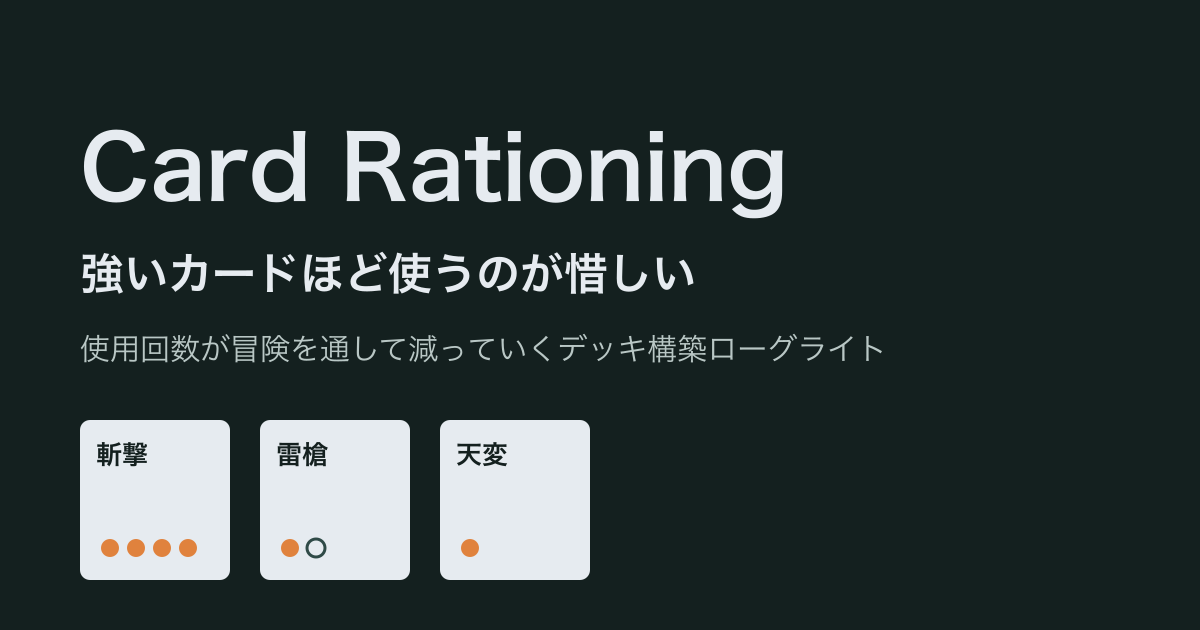
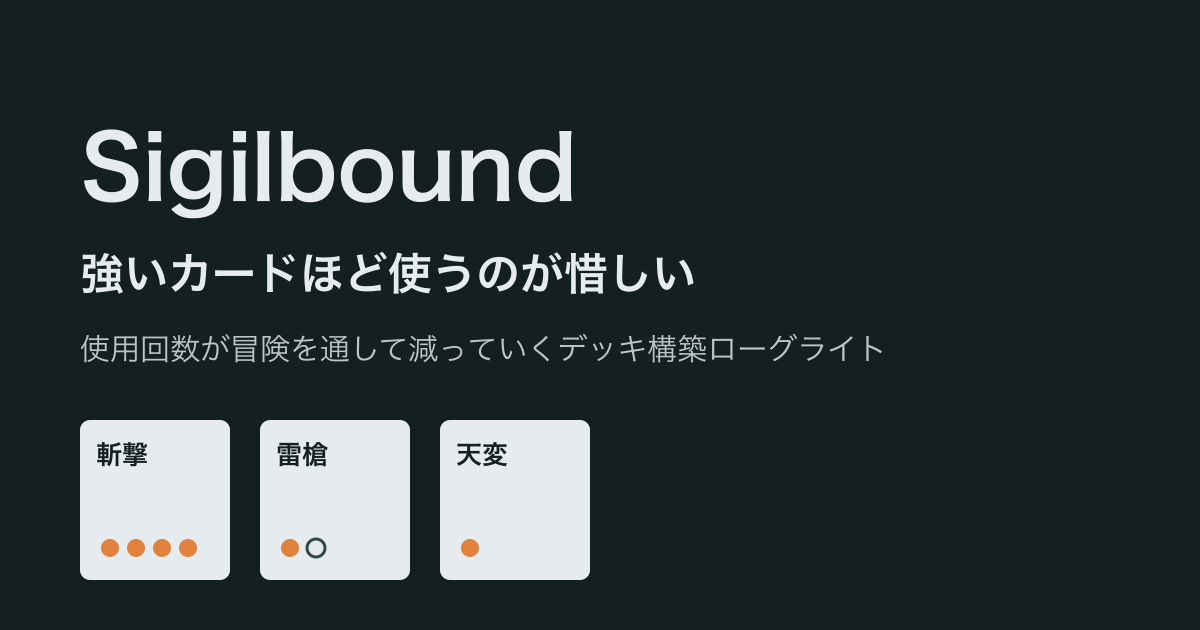
ゲームの表示名「Card Rationing」を仮の名前「Sigilbound」に置き換える
関門 2 の出し直しで、ゲーム名は主人公などが固まってから決め、それまでは
仮の名前を使うと決めた (documents/DIRECTION.md「決めたこと」2026-10-06)。
画面 (scenes/main.tscn)・プロジェクト設定・エクスポート設定・公開サイト・
規約・文書の表示名を置き換え、docs/og.png を og.svg から書き出し直した。
識別子の card-rationing (リポジトリ名・CI の artifact 名・boot のログ) は
変えない。

Refs #16

Claude-Session: https://claude.ai/code/session_01U3vyzj8Mdgw7cQNAwsgXMe

Changed region(s): [[0.0617, 0.2111, 0.6783, 0.3619]]

diff --git a/docs/index.html b/docs/index.html
@@ -3,13 +3,13 @@
 <head>
   <meta charset="utf-8">
   <meta name="viewport" content="width=device-width, initial-scale=1">
-  <title>Card Rationing｜カードの使用回数が冒険を通して減るデッキ構築ローグライト</title>
-  <meta name="description" content="Card Rationing は、カードに 1 回の冒険あたりの使用回数があるデッキ構築ローグライト。強いカードほど温存したくなるが、弱いカードだけでは勝てない。PC (Steam) 向けに開発中。">
+  <title>Sigilbound｜カードの使用回数が冒険を通して減るデッキ構築ローグライト</title>
+  <meta name="description" content="Sigilbound は、カードに 1 回の冒険あたりの使用回数があるデッキ構築ローグライト。強いカードほど温存したくなるが、弱いカードだけでは勝てない。PC (Steam) 向けに開発中。">
   <link rel="canonical" href="https://bannzai.github.io/card-rationing/">
   <link rel="icon" href="./icon.svg" type="image/svg+xml">
   <meta property="og:type" content="website">
-  <meta property="og:site_name" content="Card Rationing">
-  <meta property="og:title" content="Card Rationing｜カードの使用回数が冒険を通して減るデッキ構築ローグライト">
+  <meta property="og:site_name" content="Sigilbound">
+  <meta property="og:title" content="Sigilbound｜カードの使用回数が冒険を通して減るデッキ構築ローグライト">
   <meta property="og:description" content="強いカードほど、使うのが惜しい。使用回数が冒険を通して減っていくデッキ構築ローグライト。PC (Steam) 向けに開発中。">
   <meta property="og:url" content="https://bannzai.github.io/card-rationing/">
   <meta property="og:image" content="https://bannzai.github.io/card-rationing/og.png">
@@ -17,14 +17,14 @@
   <meta property="og:image:height" content="630">
   <meta property="og:locale" content="ja_JP">
   <meta name="twitter:card" content="summary_large_image">
-  <meta name="twitter:title" content="Card Rationing">
+  <meta name="twitter:title" content="Sigilbound">
   <meta name="twitter:description" content="強いカードほど、使うのが惜しい。使用回数が冒険を通して減っていくデッキ構築ローグライト。">
   <meta name="twitter:image" content="https://bannzai.github.io/card-rationing/og.png">
   <script type="application/ld+json">
   {
     "@context": "https://schema.org",
     "@type": "VideoGame",
-    "name": "Card Rationing",
+    "name": "Sigilbound",
     "description": "カードに 1 回の冒険あたりの使用回数があるデッキ構築ローグライト。使用回数は戦闘をまたいで戻らず、強いカードを温存するか使うかを冒険全体で決める。",
     "genre": ["Roguelike Deckbuilder", "Card Game", "Strategy"],
     "gamePlatform": "PC",
@@ -83,7 +83,7 @@
 <body>
   <header>
     <div class="wrap">
-      <h1>Card Rationing</h1>
+      <h1>Sigilbound</h1>
       <p class="tagline">強いカードほど使うのが惜しい</p>
       <p class="lead">カードに 1 回の冒険あたりの使用回数があるデッキ構築ローグライト。使った回数は戦闘が終わっても戻らない。温存するか、ここで切るかを、冒険のあいだずっと考え続ける。</p>
       <p class="status">PC (Steam) 向けに開発中</p>

diff --git a/docs/Terms-ja.md b/docs/Terms-ja.md
@@ -1,10 +1,10 @@
 # 利用規約
 
-本利用規約（以下「本規約」といいます。）には、bannzai（以下「提供者」といいます。）が提供するゲーム「Card Rationing」（以下「本ゲーム」といいます。）の利用条件と、提供者とユーザーの皆様との間の権利義務関係が定められています。本ゲームの利用に際しては、本規約の全文をお読みいただいたうえで、本規約に同意いただく必要があります。
+本利用規約（以下「本規約」といいます。）には、bannzai（以下「提供者」といいます。）が提供するゲーム「Sigilbound」（以下「本ゲーム」といいます。）の利用条件と、提供者とユーザーの皆様との間の権利義務関係が定められています。本ゲームの利用に際しては、本規約の全文をお読みいただいたうえで、本規約に同意いただく必要があります。
 
 ## 第1条（定義）
 
-1. 「本ゲーム」とは、提供者が提供する「Card Rationing」という名称のゲームソフトウェア（アップデート版、追加コンテンツ、および名称または内容が変更された場合の変更後のものを含みます。）をいいます。
+1. 「本ゲーム」とは、提供者が提供する「Sigilbound」という名称のゲームソフトウェア（アップデート版、追加コンテンツ、および名称または内容が変更された場合の変更後のものを含みます。）をいいます。
 1. 「ユーザー」とは、本ゲームを利用するすべての方をいいます。
 1. 「Steam」とは、Valve Corporation が運営するゲーム配信プラットフォームをいいます。
 1. 「知的財産権」とは、著作権、特許権、実用新案権、意匠権、商標権その他の知的財産権（それらの権利を取得し、またはそれらの権利につき登録等を出願する権利を含みます。）をいいます。

diff --git a/docs/Terms-en.md b/docs/Terms-en.md
@@ -4,11 +4,11 @@ lang: en
 
 # Terms of Use
 
-These Terms of Use ("these Terms") set out the conditions for using the game "Card Rationing" ("the Game") provided by bannzai ("the Provider"), and the rights and obligations between the Provider and users. Please read these Terms in full and agree to them before using the Game.
+These Terms of Use ("these Terms") set out the conditions for using the game "Sigilbound" ("the Game") provided by bannzai ("the Provider"), and the rights and obligations between the Provider and users. Please read these Terms in full and agree to them before using the Game.
 
 ## Article 1 (Definitions)
 
-1. "The Game" means the game software named "Card Rationing" provided by the Provider, including updates, additional content, and any version whose name or content has changed.
+1. "The Game" means the game software named "Sigilbound" provided by the Provider, including updates, additional content, and any version whose name or content has changed.
 1. "User" means anyone who uses the Game.
 1. "Steam" means the game distribution platform operated by Valve Corporation.
 1. "Intellectual property rights" means copyrights, patent rights, utility model rights, design rights, trademark rights, and other intellectual property rights (including the right to acquire or apply for registration of such rights).

diff --git a/docs/PrivacyPolicy-ja.md b/docs/PrivacyPolicy-ja.md
@@ -1,6 +1,6 @@
 # プライバシーポリシー
 
-bannzai（以下「提供者」といいます。）は、提供者が提供するゲーム「Card Rationing」（以下「本ゲーム」といいます。）における、ユーザーについての個人情報を含む利用者情報の取扱いについて、以下のとおりプライバシーポリシー（以下「本ポリシー」といいます。）を定めます。
+bannzai（以下「提供者」といいます。）は、提供者が提供するゲーム「Sigilbound」（以下「本ゲーム」といいます。）における、ユーザーについての個人情報を含む利用者情報の取扱いについて、以下のとおりプライバシーポリシー（以下「本ポリシー」といいます。）を定めます。
 
 ## 収集する利用者情報および収集方法
 

diff --git a/documents/PROJECT.md b/documents/PROJECT.md
@@ -1,4 +1,4 @@
-# Card Rationing
+# Sigilbound
 
 カードに 1 回の冒険 (ラン) あたりの使用回数制限があるローグライト・デッキ構築ゲーム。基本の遊び方は Slay the Spire 型 (分岐するマップを進み、ターン制の戦闘でデッキのカードを使う) で、使ったカードの残り回数が戦闘をまたいで減っていく。強いカードほど温存したくなるが、弱いカードだけでは敵を倒せない。このジレンマを冒険全体で考え続けることが遊びの中心になる。
 

diff --git a/docs/PrivacyPolicy-en.md b/docs/PrivacyPolicy-en.md
@@ -4,7 +4,7 @@ lang: en
 
 # Privacy Policy
 
-bannzai ("we" or "the Provider") sets out this Privacy Policy ("this Policy") for how we handle user information, including personal information, in the game "Card Rationing" ("the Game").
+bannzai ("we" or "the Provider") sets out this Privacy Policy ("this Policy") for how we handle user information, including personal information, in the game "Sigilbound" ("the Game").
 
 ## Information we collect and how
 

diff --git a/AGENTS.md b/AGENTS.md
@@ -1,4 +1,4 @@
-# Card Rationing
+# Sigilbound (仮の名前)
 
 カードに 1 回の冒険 (ラン) あたりの使用回数制限があるローグライト・デッキ構築ゲーム (Godot 4.7 / Steam)。仕様・スコープは [documents/PROJECT.md](documents/PROJECT.md)、判断の根拠 (仮説・判定基準・決めたこと) は [documents/DIRECTION.md](documents/DIRECTION.md) を参照 (どちらも SSOT)。
 

diff --git a/documents/DIRECTION.md b/documents/DIRECTION.md
@@ -7,7 +7,7 @@ daily_issue_cap: 3
 launched_at:
 ---
 
-# 方向性: Card Rationing
+# 方向性: Sigilbound (仮の名前。正式な名前は「決めたこと」の 2026-10-06 の行)
 
 ## 仮説
 
